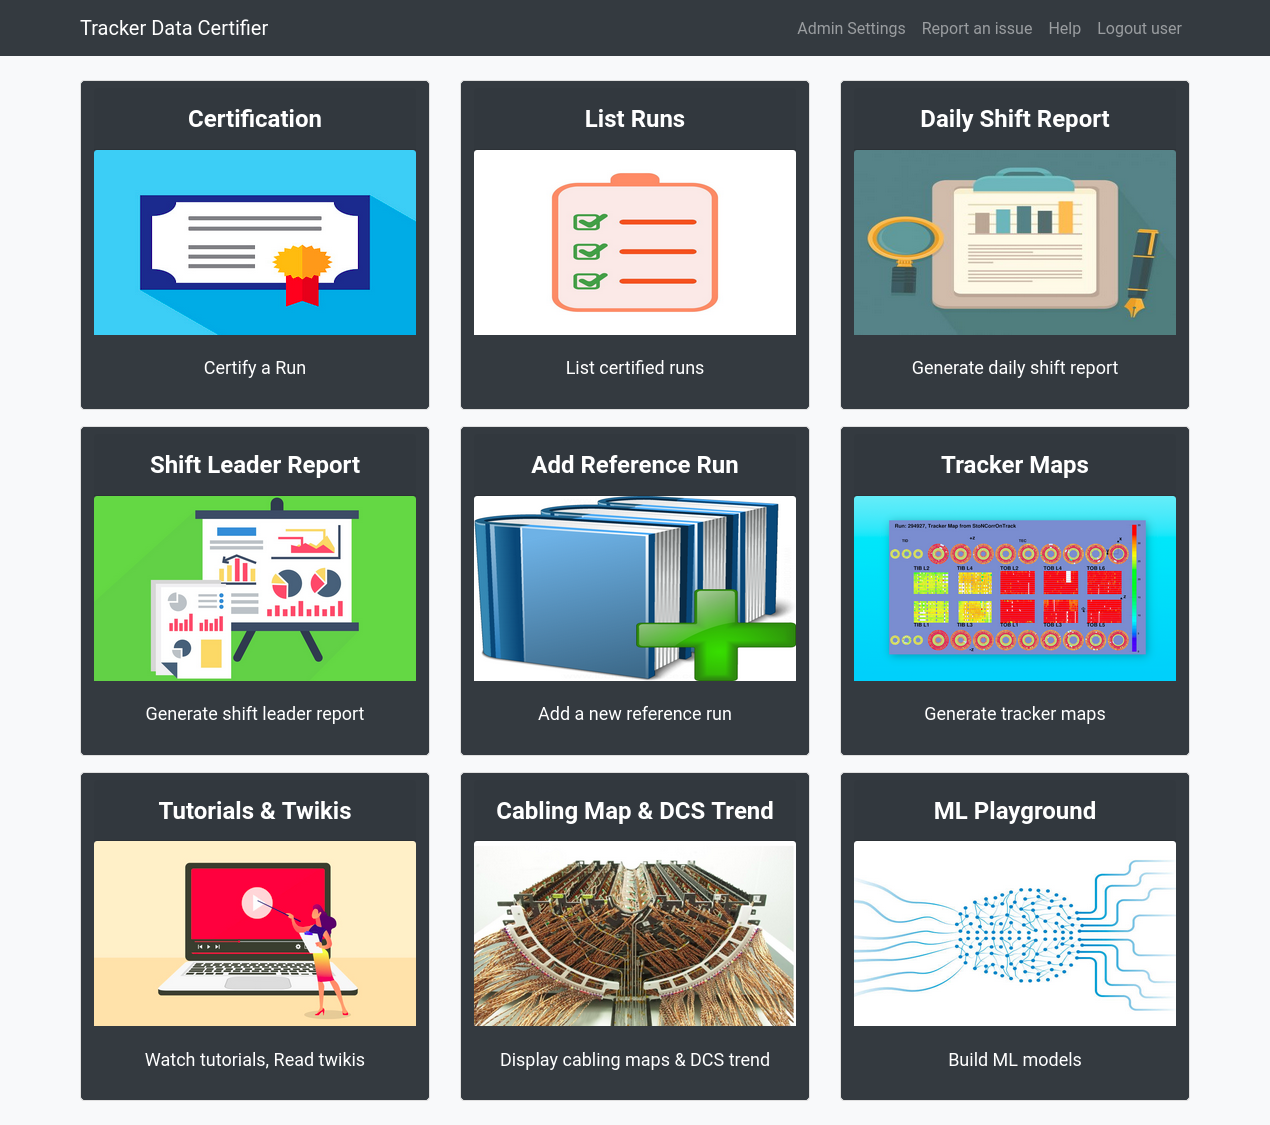
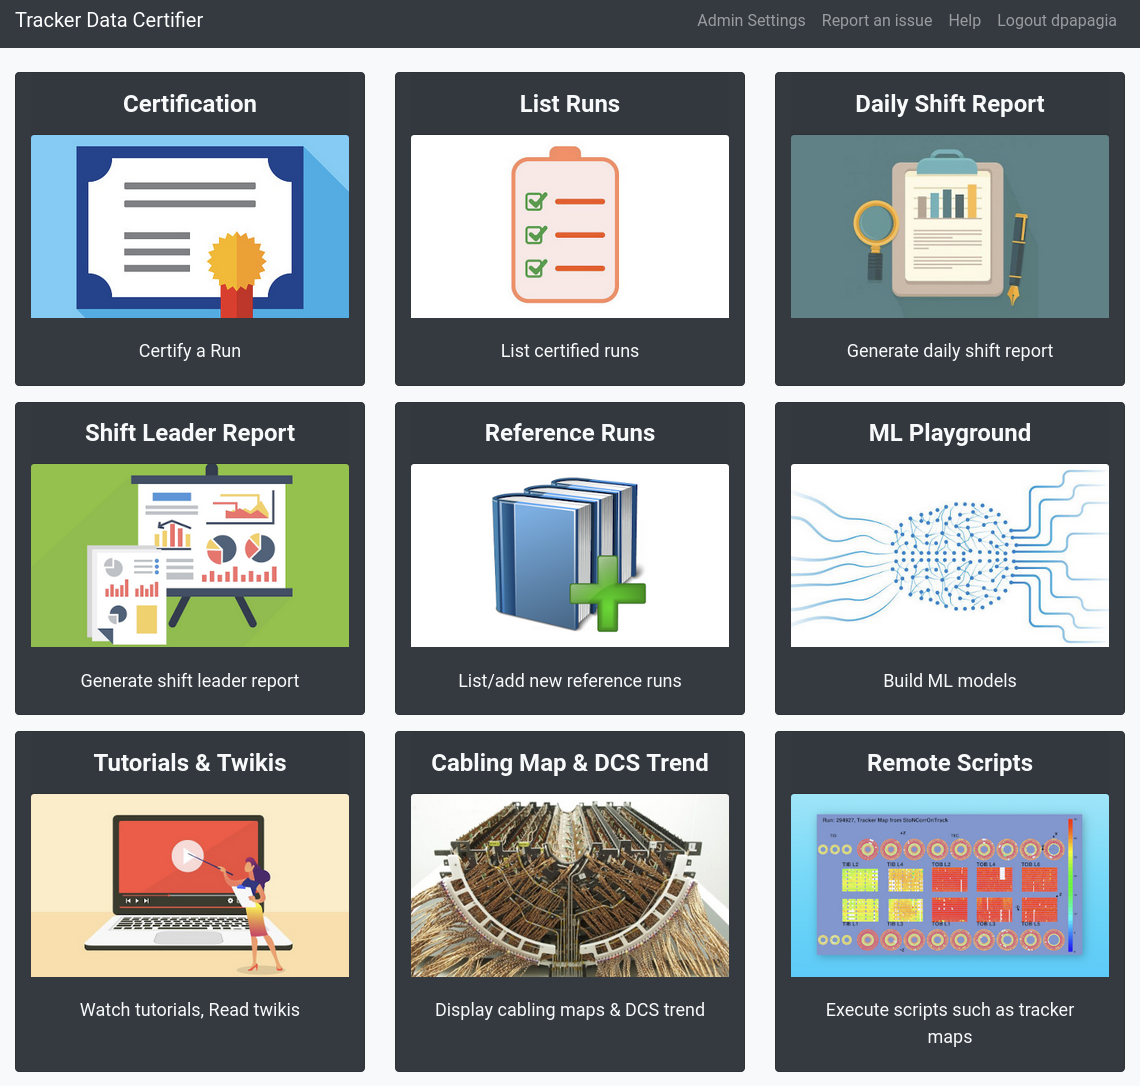
Updating doc

diff --git a/docs/user-manual.rst b/docs/user-manual.rst
@@ -194,6 +194,38 @@ the generating script.
 
 .. image:: images/remotescripts-trackermaps-running.png
 
+Reference Runs
+--------------
+
+This page lists all the run reconstructions which serve as reference for
+certifying new ones.
+
+.. image:: images/referenceruns-list.png
+
+Shiftleader-only features
+~~~~~~~~~~~~~~~~~~~~~~~~~
+
+A new reference run can be added by clicking on the :guilabel:`Add Reference Run` tile.
+
+.. image:: images/add-reference-run-tile.png
+
+Here the user can either permanently delete a reference run that was added by mistake or promote a
+certified one by using the run number and type of the run.
+
+Since a reference run reconstruction must have been certified first, adding a run reconstruction that
+has not been certified yet will prompt the user to certify the run first.
+
+.. note::
+
+   To promote an existing one to reference, you can also use the `Shift Leader View`_.
+
+.. warning::
+
+   A certification without a reference run reconstruction is no longer valid.
+   Therefore, deleting a reference run will also delete all the certifications
+   that refer to that specific reference run. 
+
+
 
 Shift Leader
 ============
@@ -211,33 +243,6 @@ Apart from that the ShiftLeader has access to all the pages/tiles, including
 the ones used by Shifters.
 
 .. image:: images/main-page.png
-
-Add Reference Run
------------------
-
-A new reference run can be added by clicking on the :guilabel:`Add Reference Run` tile.
-
-.. image:: images/add-reference-run-tile.png
-		   
-Once clicked you are presented with the following page:
-
-.. image:: images/add-reference-run.png
-
-Here the user can either permanently delete a reference run that was added by mistake or promote a
-certified one by using the run number and type of the run.
-
-Since a reference run reconstruction must have been certified first, adding a run reconstruction that
-has not been certified yet will prompt the user to certify the run first.
-
-.. note::
-
-   To promote an existing one to reference, you can also use the `Shift Leader View`_.
-
-.. warning::
-
-   A certification without a reference run reconstruction is no longer valid.
-   Therefore, deleting a reference run will also delete all the certifications
-   that refer to that specific reference run. 
 
 
 
